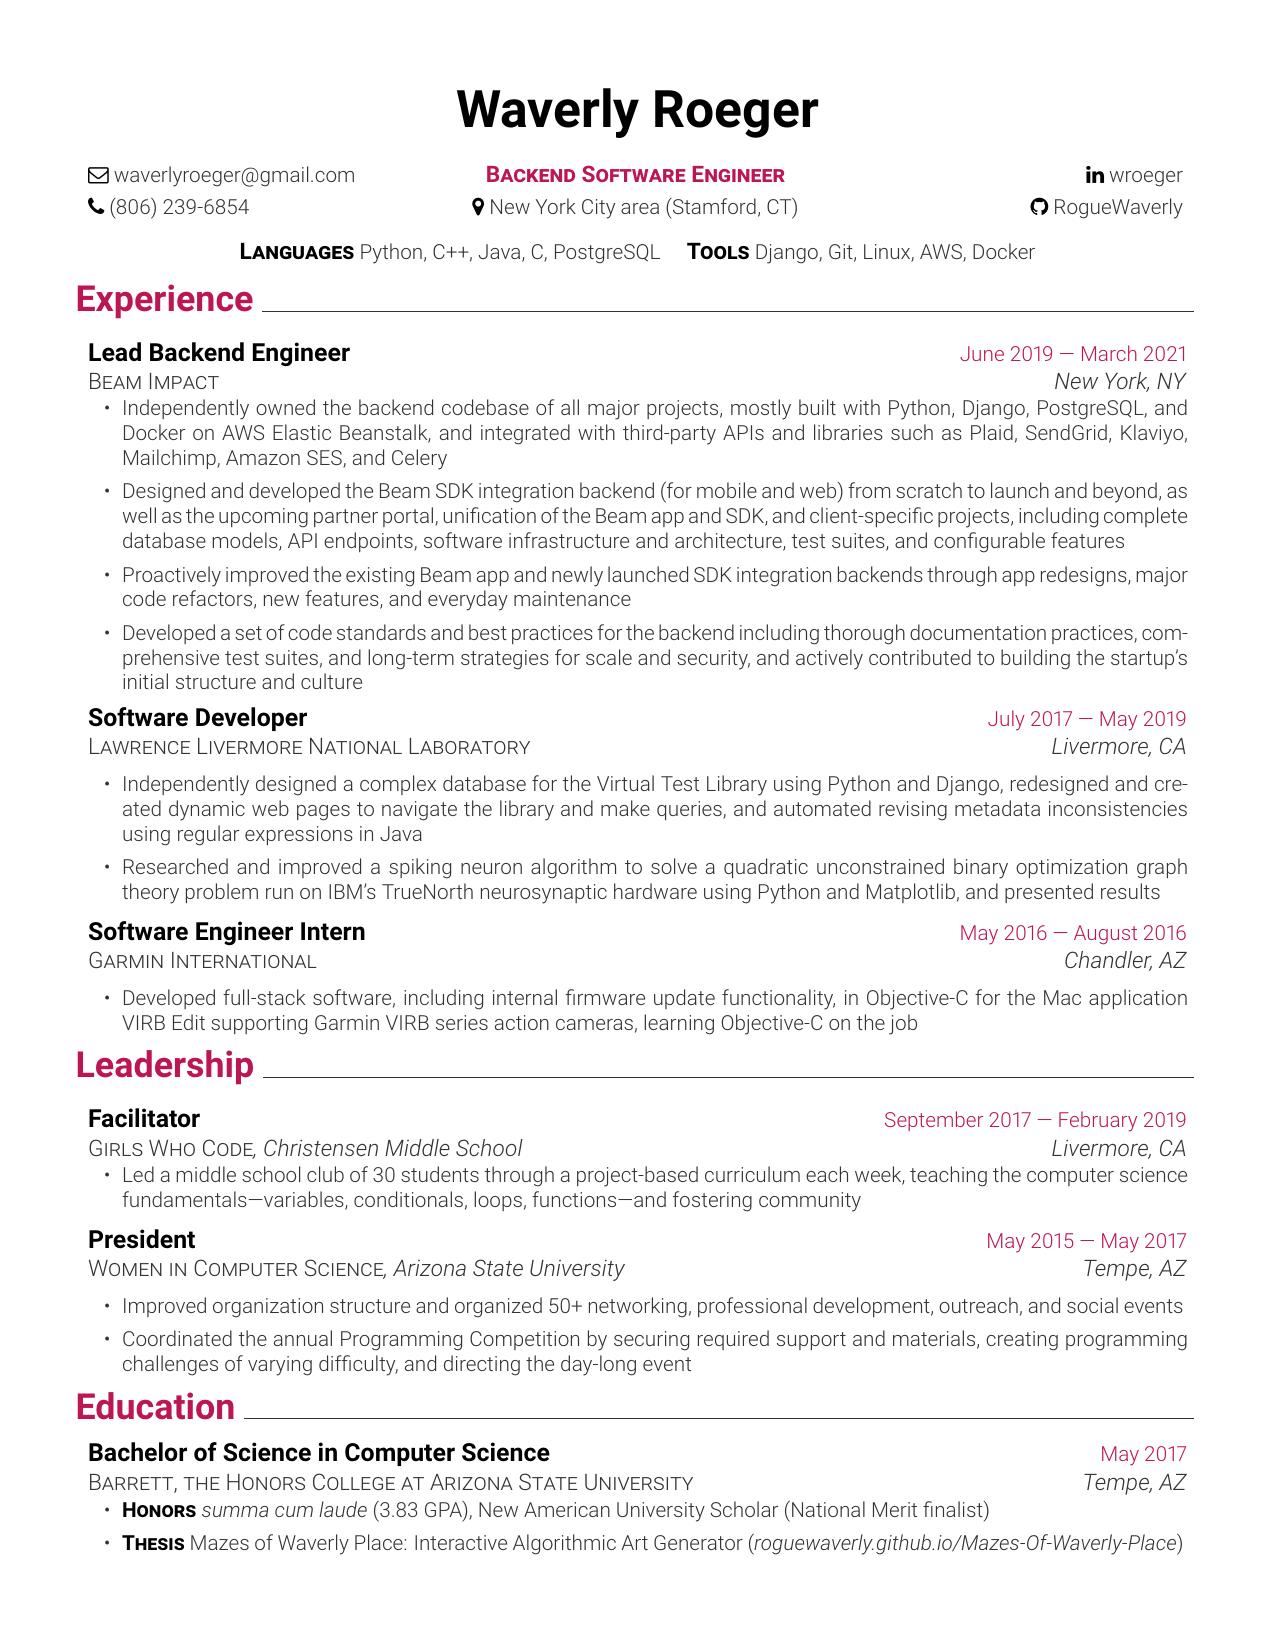
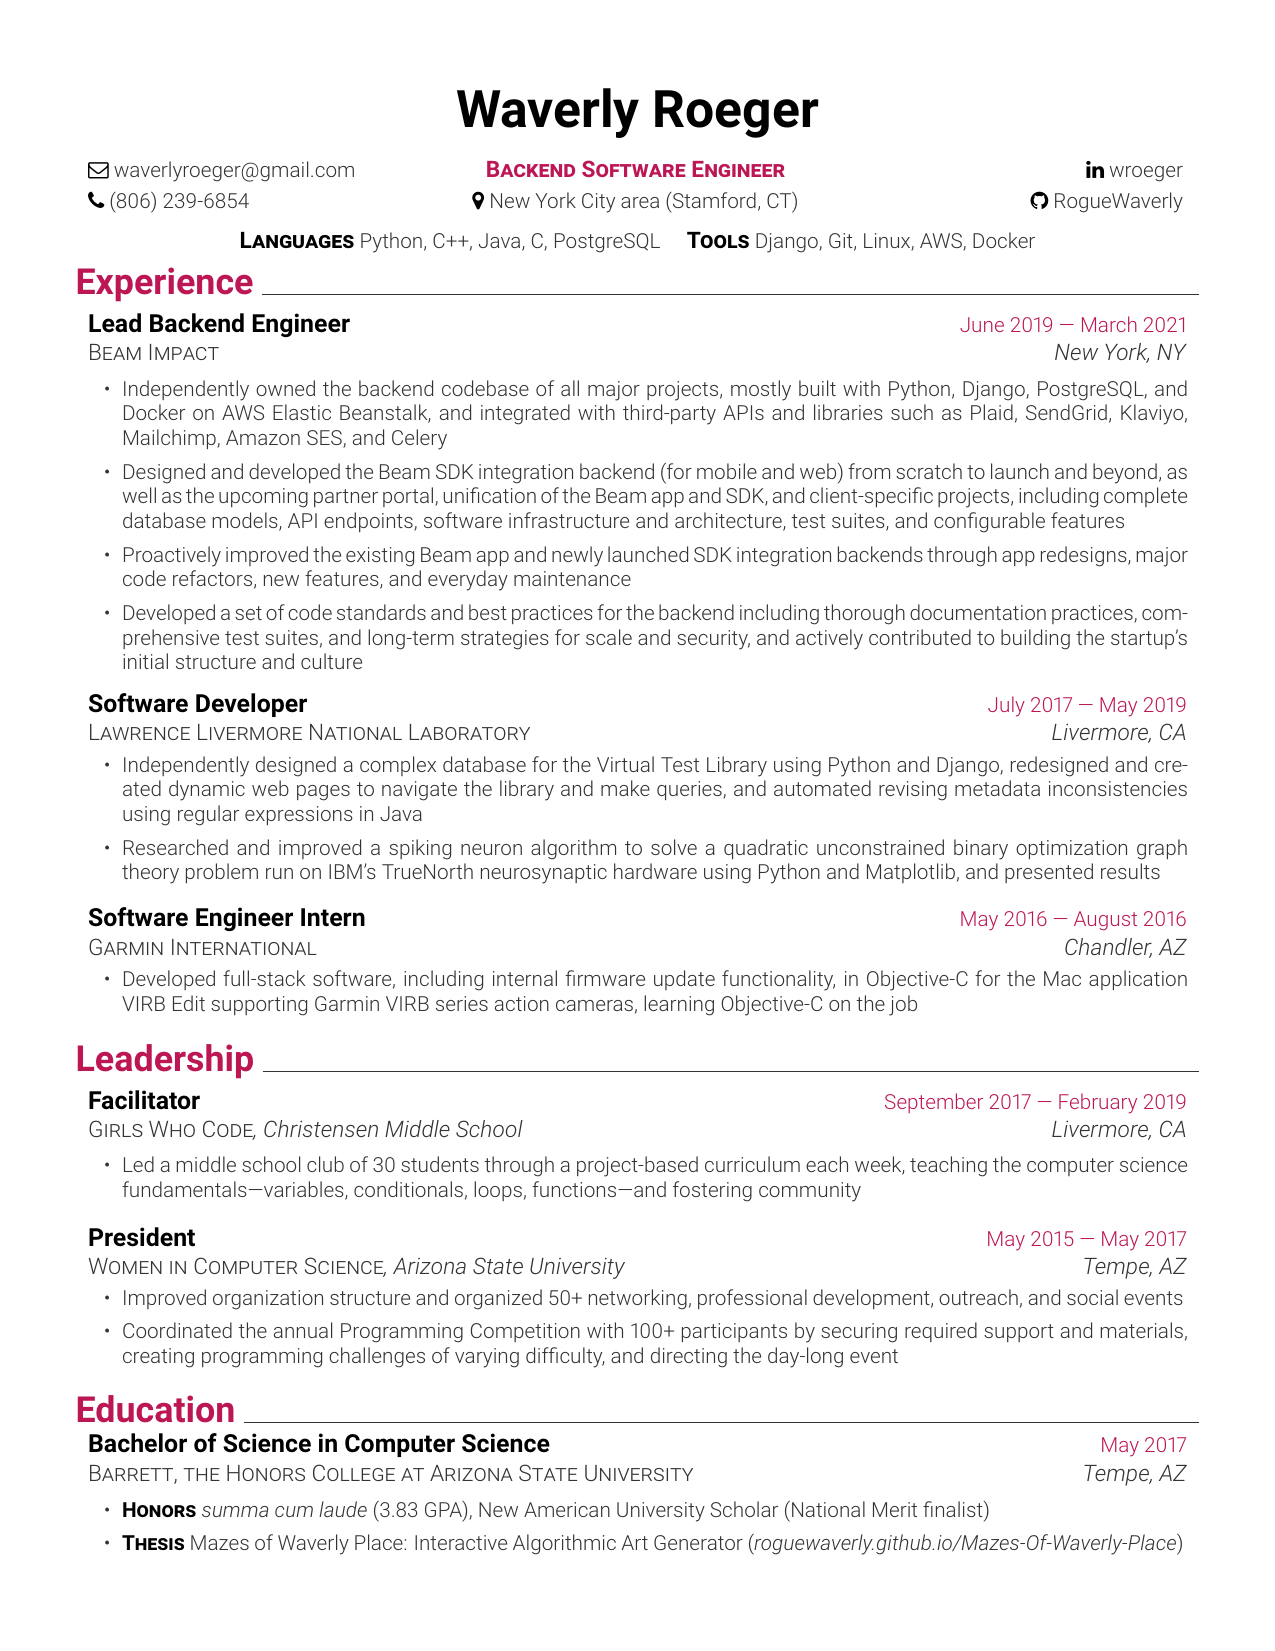
Adjust spacing

diff --git a/resume.tex b/resume.tex
@@ -44,18 +44,22 @@
 
 % SECTION FORMATTING
 \newcommand{\resumeSection}[1]{
+  \begin{flushleft}
   {\LARGE
   \textcolor{accent}{\textbf{#1}}
   \hrulefill}
-  \vspace{\resumeSpacing}
+  \end{flushleft}
 }
 
 \newcommand{\resumeSubsection}[6]{
-  \vspace{\resumeSpacing}
+  \begin{center}
+  \vspace{-2.5pt}
 	\begin{tabular*}{\textwidth}{l@{\extracolsep{\fill}}r}
 	\large\textcolor{black}{\textbf{#1}} & \small\textcolor{accent}{#2} \\
   \href{#4}{\textsc{#3}}\textit{#6} & \textit{#5} \\
 	\end{tabular*}
+  \vspace{-\resumeSpacing}
+  \end{center}
 }
 
 \newenvironment{resumeItemize}{
@@ -158,7 +162,7 @@
 	  \resumeItem
     {Improved organization structure and organized 50+ networking, professional development, outreach, and social events}
 	  \resumeItem
-    {Coordinated the annual Programming Competition by securing required support and materials, creating programming challenges of varying difficulty, and directing the day-long event}
+    {Coordinated the annual Programming Competition with 100+ participants by securing required support and materials, creating programming challenges of varying difficulty, and directing the day-long event}
   \end{resumeItemize}
   %-------------------------
   %%%%%%% EDUCATION %%%%%%%%
